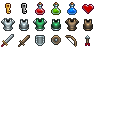
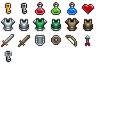
fix: fixes pt II

diff --git a/src/entities/Map.ts b/src/entities/Map.ts
@@ -122,6 +122,7 @@ export default class Map {
       const roomIndex = this.rooms.indexOf(room);
       const isLocked = this.lockedRooms.has(roomIndex);
       const isGoldLocked = this.goldLockedRooms.has(roomIndex);
+      const isBossRoom = this.bossLockedRooms.has(roomIndex);
 
       const roomTL = this.tilemap.tileToWorldXY(room.x + 1, room.y + 1);
       const roomBounds = this.tilemap.tileToWorldXY(
@@ -131,7 +132,7 @@ export default class Map {
 
       // Increase slime count based on room type
       let numSlimes: number;
-      if (isLocked || isGoldLocked) {
+      if (isLocked || isGoldLocked || isBossRoom) {
         // Locked rooms have more enemies (3-6 slimes)
         numSlimes = Phaser.Math.Between(3, 6);
       } else {
@@ -146,8 +147,12 @@ export default class Map {
           scene
         );
 
-        // Mark slimes in locked rooms to drop gold keys
-        if (isLocked || isGoldLocked) {
+        // Mark slimes in locked rooms to drop appropriate keys
+        if (isBossRoom) {
+          (slime as any).dropsBossKey = true;
+        } else if (isGoldLocked) {
+          (slime as any).dropsBossKey = true;
+        } else if (isLocked) {
           (slime as any).dropsGoldKey = true;
         }
 
@@ -254,12 +259,12 @@ export default class Map {
     this.doorLayer.setTileIndexCallback(
       goldLockedDoors,
       (_: unknown, tile: Phaser.Tilemaps.Tile) => {
-        // Check if player has a key
-        if (this.player && this.player.hasKey()) {
-          // Consume the key
-          this.player.useKey();
+        // Check if player has a gold key
+        if (this.player && this.player.hasGoldKey()) {
+          // Consume the gold key
+          this.player.useGoldKey();
 
-          // Treat locked door like a regular door - break it
+          // Treat gold locked door like a regular door - break it
           this.doorLayer.putTileAt(
             Graphics.environment.indices.doors.destroyed,
             tile.x,
@@ -275,7 +280,7 @@ export default class Map {
       this
     );
 
-    // Add callback for gold locked doors (boss doors)
+    // Add callback for boss doors
     const bossDoors = [
       Graphics.environment.indices.doors.bossDoor
     ];
@@ -283,10 +288,10 @@ export default class Map {
     this.doorLayer.setTileIndexCallback(
       bossDoors,
       (_: unknown, tile: Phaser.Tilemaps.Tile) => {
-        // Check if player has a gold key
-        if (this.player && this.player.hasGoldKey()) {
-          // Consume the gold key
-          this.player.useGoldKey();
+        // Check if player has a boss key
+        if (this.player && this.player.hasBossKey()) {
+          // Consume the boss key
+          this.player.useBossKey();
 
           // Treat boss door like a regular door - break it
           this.doorLayer.putTileAt(
@@ -297,7 +302,7 @@ export default class Map {
           this.tileAt(tile.x, tile.y)!.open();
           scene.fov!.recalculate();
         } else {
-          // Show feedback when trying to open boss door without gold key
+          // Show feedback when trying to open boss door without boss key
           this.showBossDoorMessage(scene, tile.x, tile.y);
         }
       },
@@ -522,15 +527,68 @@ export default class Map {
       const room = this.rooms[roomIndex];
       const isLocked = this.lockedRooms.has(roomIndex);
       const isGoldLocked = this.goldLockedRooms.has(roomIndex);
+      const isBossRoom = this.bossLockedRooms.has(roomIndex);
 
       if (isLocked || isGoldLocked) {
         // Place torches along all walls
         this.placeTorchesAlongWalls(room);
       }
+
+      // Add special torch placement for boss room entrances
+      if (isBossRoom) {
+        this.placeTorchesAtBossRoomEntrance(room);
+      }
     }
 
     // Set depth for decoration layer
     this.decorationLayer.setDepth(4);
+  }
+
+  // Add method to place torches at boss room entrance
+  private placeTorchesAtBossRoomEntrance(bossRoom: Dungeoneer.Room) {
+    // Find all doors that lead to the boss room
+    for (let y = 0; y < this.height; y++) {
+      for (let x = 0; x < this.width; x++) {
+        const tile = this.tiles[y][x];
+        if (tile.type === TileType.BossDoor) {
+          // Place torches around the boss door entrance
+          this.placeTorchesAroundDoor(x, y);
+        }
+      }
+    }
+  }
+
+  // Add method to place torches around a door
+  private placeTorchesAroundDoor(doorX: number, doorY: number) {
+    // Define positions around the door to place torches
+    const torchPositions = [
+      // Adjacent to the door
+      { x: doorX - 1, y: doorY },
+      { x: doorX + 1, y: doorY },
+      { x: doorX, y: doorY - 1 },
+      { x: doorX, y: doorY + 1 },
+      // Diagonal positions for more dramatic effect
+      { x: doorX - 1, y: doorY - 1 },
+      { x: doorX + 1, y: doorY - 1 },
+      { x: doorX - 1, y: doorY + 1 },
+      { x: doorX + 1, y: doorY + 1 },
+      // Extended positions for a more dramatic entrance
+      { x: doorX - 2, y: doorY },
+      { x: doorX + 2, y: doorY },
+      { x: doorX, y: doorY - 2 },
+      { x: doorX, y: doorY + 2 }
+    ];
+
+    // Place torches at valid positions
+    for (const pos of torchPositions) {
+      if (this.isValidTorchPosition(pos.x, pos.y)) {
+        this.decorationLayer.putTileAt(
+          Graphics.environment.indices.torch,
+          pos.x,
+          pos.y
+        );
+      }
+    }
   }
 
   // Add method to place torches along room walls

diff --git a/src/entities/Slime.ts b/src/entities/Slime.ts
@@ -16,7 +16,8 @@ export default class Slime {
   private path: Phaser.Math.Vector2[];
   private pathIndex: number;
   private map: DungeonMap;
-  public dropsGoldKey: boolean = false; // Add property to track drop type
+  public dropsGoldKey: boolean = false;
+  public dropsBossKey: boolean = false;
 
   constructor(x: number, y: number, scene: Phaser.Scene) {
     this.scene = scene;
@@ -85,6 +86,10 @@ export default class Slime {
         // Slimes in locked rooms drop gold keys
         item = Item.createGoldKey();
         console.log(`Creating gold key item: ${item.data.name} with sprite index: ${item.data.spriteIndex}`);
+      } else if (this.dropsBossKey) {
+        // Slimes in golden locked rooms drop boss keys
+        item = Item.createBossKey();
+        console.log(`Creating boss key item: ${item.data.name} with sprite index: ${item.data.spriteIndex}`);
       } else {
         // Normal slimes drop regular items
         const itemType = Phaser.Math.Between(0, 2);

diff --git a/src/entities/Player.ts b/src/entities/Player.ts
@@ -172,6 +172,24 @@ export default class Player {
     return false;
   }
 
+  hasBossKey(): boolean {
+    const bossKey = this.inventory.getItem("boss_key");
+    return bossKey !== undefined && bossKey.quantity > 0;
+  }
+
+  useBossKey(): boolean {
+    const bossKey = this.inventory.getItem("boss_key");
+    if (bossKey && bossKey.quantity > 0) {
+      const success = this.inventory.removeItem("boss_key", 1);
+      if (success) {
+        // Emit event to notify inventory scene that inventory changed
+        this.scene.events.emit('inventoryUpdated');
+        return true;
+      }
+    }
+    return false;
+  }
+
   update(time: number) {
     this.time = time;
     const keys = this.keys;

diff --git a/src/entities/Item.ts b/src/entities/Item.ts
@@ -60,6 +60,18 @@ export default class Item {
         });
     }
 
+    static createBossKey(amount: number = 1): Item {
+        return new Item({
+            id: "boss_key",
+            name: "Boss Key",
+            type: ItemType.KEY,
+            spriteIndex: 10,
+            description: "Opens boss doors",
+            stackable: false,
+            maxStack: 1
+        }, amount);
+    }
+
     canStackWith(other: Item): boolean {
         return this.data.id === other.data.id && this.data.stackable;
     }
